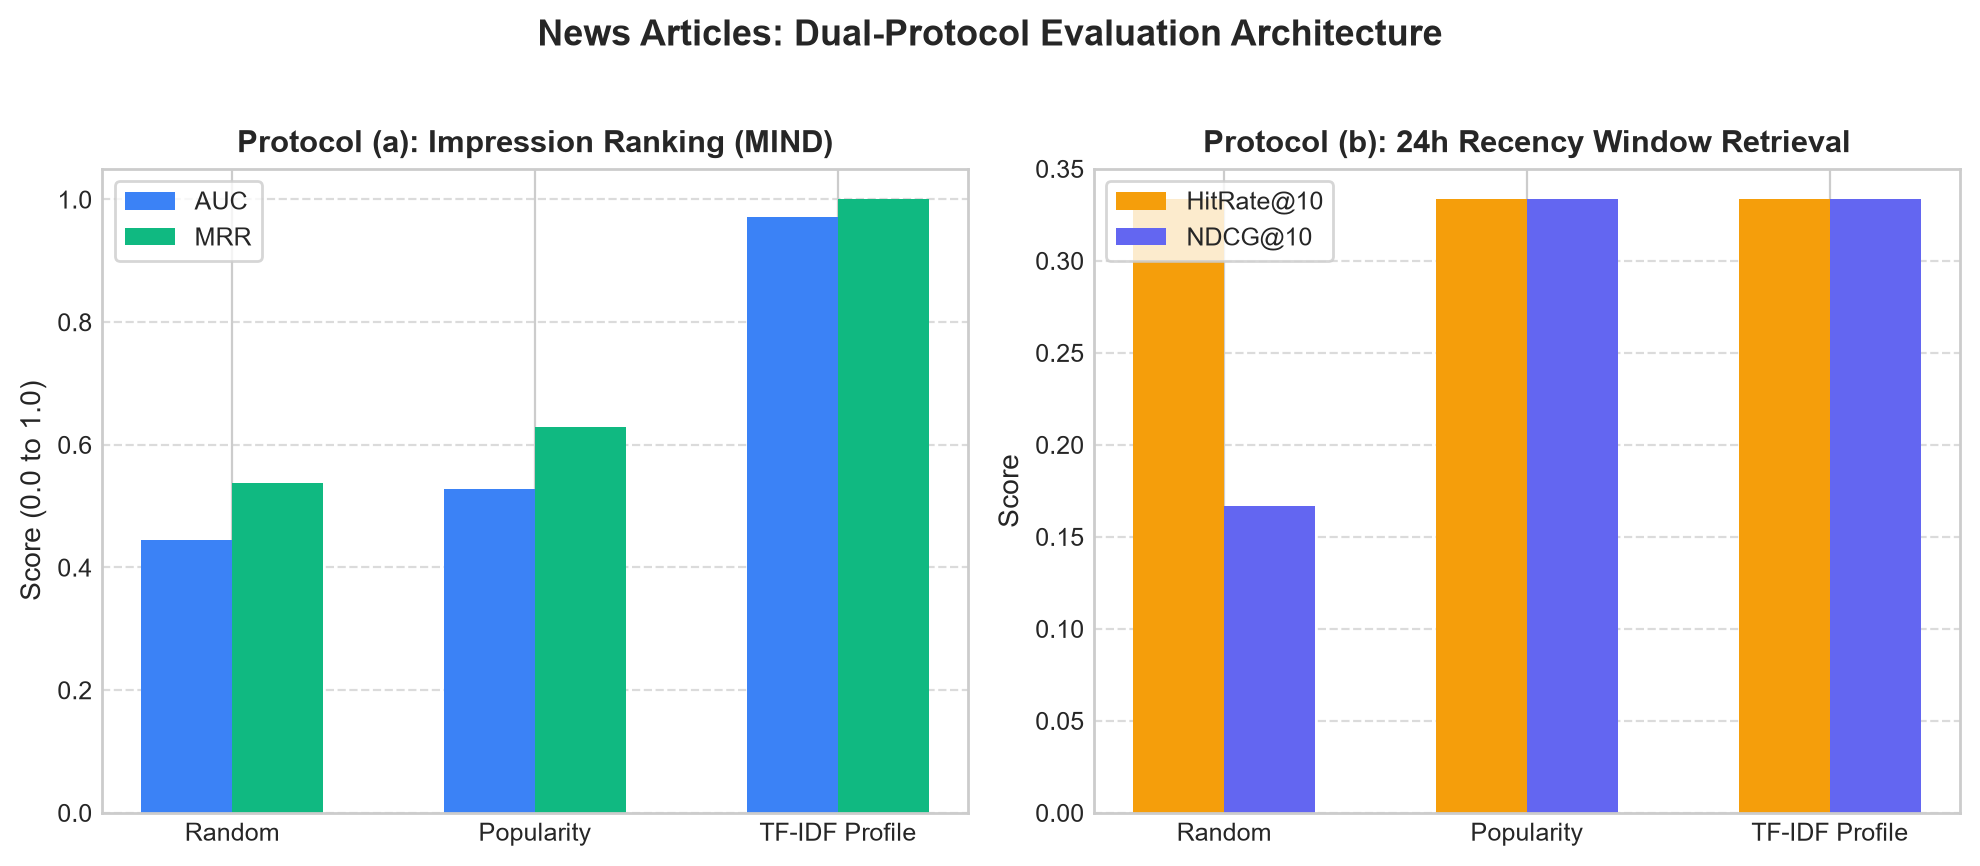
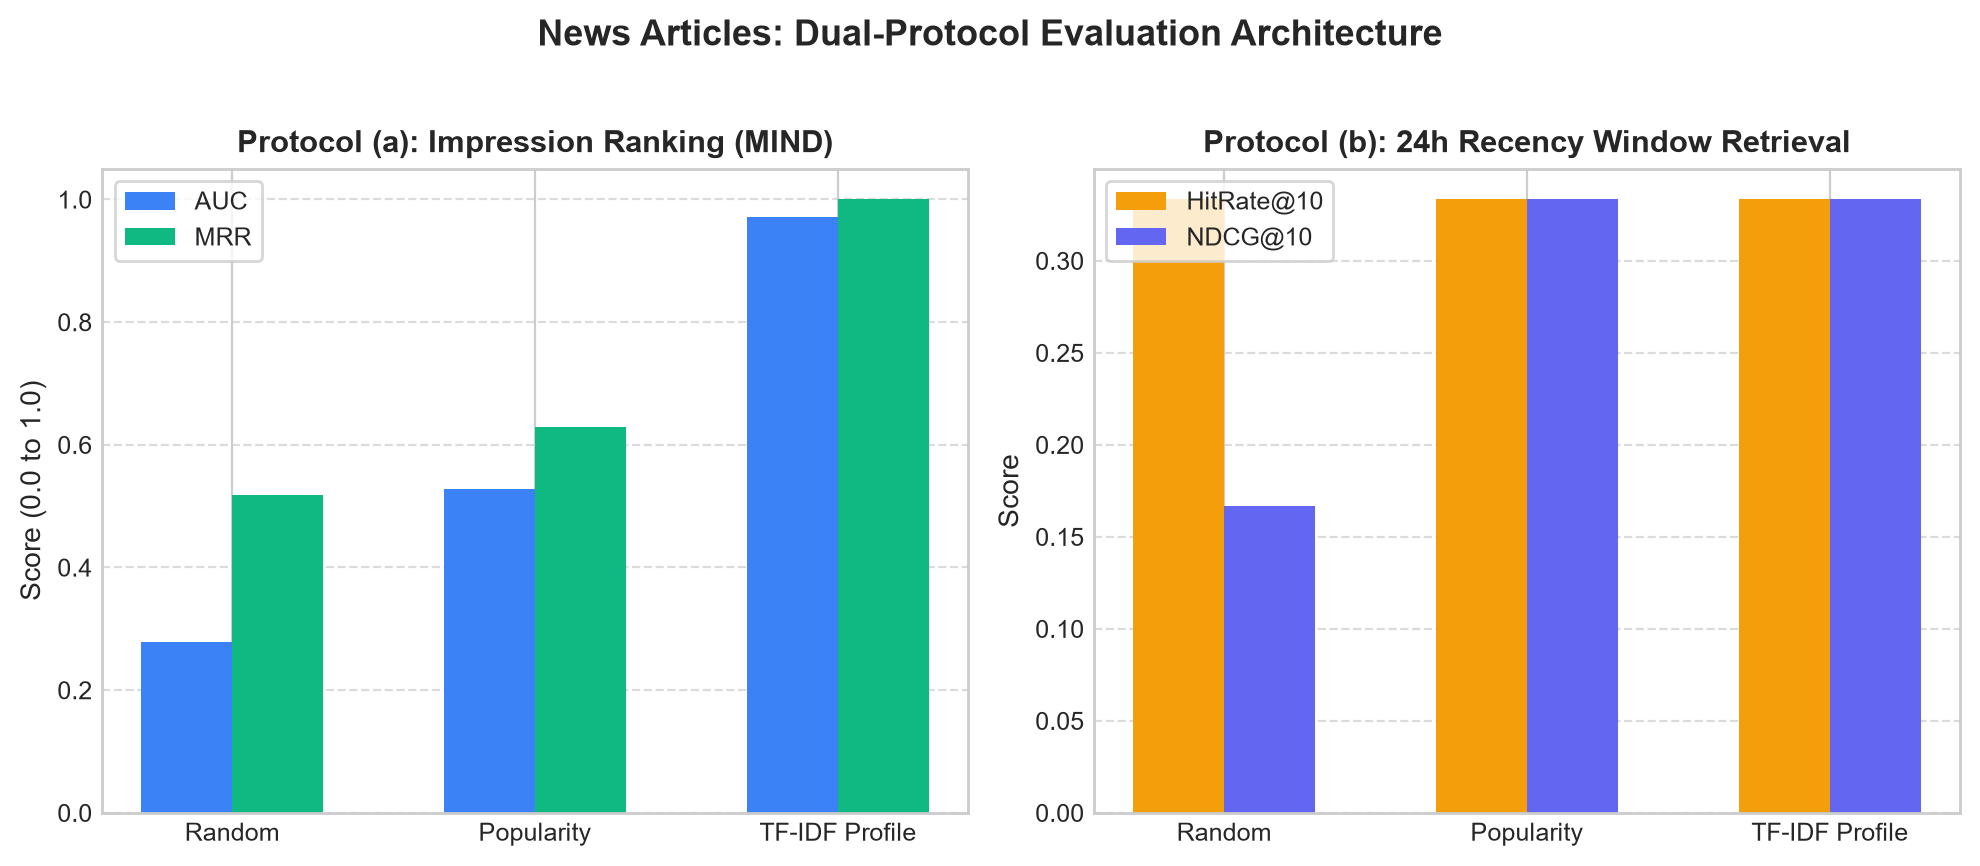
docs: regenerate RESULTS.md and figures with bootstrap CIs

Changed region(s): [[0.0616, 0.6236, 0.1232, 0.7483], [0.1232, 0.53, 0.154, 0.5924], [0.5237, 0.1871, 0.5545, 0.2182]]

diff --git a/backend/engine/evaluation/articles_eval.py b/backend/engine/evaluation/articles_eval.py
@@ -24,17 +24,17 @@ from engine.config import compute_config_hash
 from engine.evaluation.checks import check_r1_data_validity, check_r4_evaluation_validity
 from engine.evaluation.harness import get_git_sha
 from engine.evaluation.metrics import (
+    bootstrap_ci,
+    compute_headline_metrics_with_ci,
     coverage,
     hit_rate,
     impression_mrr,
     impression_ndcg,
     impression_roc_auc,
     intra_list_diversity,
-    mean_average_precision,
     ndcg,
     novelty,
     personalisation_score,
-    precision,
     recall,
 )
 from engine.models.baselines import PopularityModel, RandomModel
@@ -87,7 +87,7 @@ def evaluate_impression_ranking(
             key=lambda x: (x.get("timestamp", 0), x.get("impression_id", "")),
         )
 
-    results: dict[str, dict[str, float]] = {}
+    results: dict[str, dict[str, Any]] = {}
 
     for name, model in models.items():
         aucs: list[float] = []
@@ -137,18 +137,44 @@ def evaluate_impression_ranking(
             ndcg10 = impression_ndcg(labels, scores, k=10, candidate_ids=cands)
             ndcg10s.append(ndcg10)
 
+        auc_ci = bootstrap_ci(aucs, n_bootstraps=500, seed=seed) if len(aucs) >= 2 else None
+        mrr_ci = bootstrap_ci(mrrs, n_bootstraps=500, seed=seed) if len(mrrs) >= 2 else None
+        ndcg5_ci = bootstrap_ci(ndcg5s, n_bootstraps=500, seed=seed) if len(ndcg5s) >= 2 else None
+        ndcg10_ci = (
+            bootstrap_ci(ndcg10s, n_bootstraps=500, seed=seed) if len(ndcg10s) >= 2 else None
+        )
+
         results[name] = {
             "auc": round(float(np.mean(aucs)), 4) if aucs else 0.5,
+            "auc_ci95": [round(float(auc_ci[0]), 4), round(float(auc_ci[1]), 4)]
+            if auc_ci
+            else None,
             "mrr": round(float(np.mean(mrrs)), 4) if mrrs else 0.0,
+            "mrr_ci95": [round(float(mrr_ci[0]), 4), round(float(mrr_ci[1]), 4)]
+            if mrr_ci
+            else None,
             "ndcg@5": round(float(np.mean(ndcg5s)), 4) if ndcg5s else 0.0,
+            "ndcg@5_ci95": (
+                [round(float(ndcg5_ci[0]), 4), round(float(ndcg5_ci[1]), 4)] if ndcg5_ci else None
+            ),
             "ndcg@10": round(float(np.mean(ndcg10s)), 4) if ndcg10s else 0.0,
+            "ndcg@10_ci95": (
+                [round(float(ndcg10_ci[0]), 4), round(float(ndcg10_ci[1]), 4)]
+                if ndcg10_ci
+                else None
+            ),
         }
 
     # Sanity checks for Protocol (a)
     all_bounds_valid = True
     for _m_name, m_dict in results.items():
         for val in m_dict.values():
-            if val < 0.0 or val > 1.0 or not np.isfinite(val):
+            if isinstance(val, (int, float)):
+                if val < 0.0 or val > 1.0 or not np.isfinite(val):
+                    all_bounds_valid = False
+            elif isinstance(val, (list, tuple)) and any(
+                v < 0.0 or v > 1.0 or not np.isfinite(v) for v in val
+            ):
                 all_bounds_valid = False
 
     pop_res = results.get("popularity", {})
@@ -249,7 +275,7 @@ def evaluate_window_retrieval(
                 list(val) if isinstance(val, (list, tuple, set)) else []
             )
 
-    models_results: dict[str, dict[str, dict[str, float]]] = {}
+    models_results: dict[str, dict[str, dict[str, Any]]] = {}
 
     for name, model in models.items():
         preds_rows = []
@@ -279,15 +305,27 @@ def evaluate_window_retrieval(
             else pd.DataFrame(columns=["user_id", "item_id", "score", "rank"])
         )
 
-        per_k_metrics: dict[str, dict[str, float]] = {}
+        per_k_metrics: dict[str, dict[str, Any]] = {}
         for k in ks:
             k_key = str(k)
+            hl = compute_headline_metrics_with_ci(
+                true_df=pos_test,
+                pred_df=preds_df,
+                k=k,
+                n_bootstraps=500,
+                seed=seed,
+            )
             per_k_metrics[k_key] = {
-                "precision": precision(pos_test, preds_df, k=k),
-                "recall": recall(pos_test, preds_df, k=k),
-                "ndcg": ndcg(pos_test, preds_df, k=k),
-                "map": mean_average_precision(pos_test, preds_df, k=k),
-                "hit_rate": hit_rate(pos_test, preds_df, k=k),
+                "precision": hl["precision"],
+                "precision_ci95": hl["precision_ci95"],
+                "recall": hl["recall"],
+                "recall_ci95": hl["recall_ci95"],
+                "ndcg": hl["ndcg"],
+                "ndcg_ci95": hl["ndcg_ci95"],
+                "map": hl["map"],
+                "map_ci95": hl["map_ci95"],
+                "hit_rate": hl["hit_rate"],
+                "hit_rate_ci95": hl["hit_rate_ci95"],
                 "coverage": coverage(preds_df, items, k=k),
                 "novelty": novelty(preds_df, train_df, k=k),
                 "diversity": intra_list_diversity(preds_df, item_cats_map, k=k),
@@ -301,17 +339,36 @@ def evaluate_window_retrieval(
     ref_k = str(ref_k_val)
     r4_results = check_r4_evaluation_validity(models_results, ref_k=ref_k_val)
 
-    sanity_checks = {
-        "all_bounds_valid": r4_results["all_bounds_valid"],
-        "popularity_beats_random": r4_results["popularity_beats_random"],
-        "model_beats_popularity": True,
-    }
-
+    ci_sep: dict[str, bool] = {}
     prim_name = spec.model.name
+    if prim_name in models_results and "popularity" in models_results:
+        prim_k = models_results[prim_name].get(ref_k, {})
+        pop_k = models_results["popularity"].get(ref_k, {})
+        for metric_name in ("recall", "ndcg", "precision", "map", "hit_rate"):
+            m_ci = prim_k.get(f"{metric_name}_ci95")
+            p_ci = pop_k.get(f"{metric_name}_ci95")
+            if (
+                m_ci
+                and p_ci
+                and isinstance(m_ci, (list, tuple))
+                and isinstance(p_ci, (list, tuple))
+            ):
+                ci_sep[metric_name] = bool(m_ci[0] > p_ci[1])
+            else:
+                ci_sep[metric_name] = False
+
+    model_beats_pop = True
     if prim_name in models_results and "popularity" in models_results:
         prim_ndcg = models_results[prim_name].get(ref_k, {}).get("ndcg", 0.0)
         pop_ndcg = models_results["popularity"].get(ref_k, {}).get("ndcg", 0.0)
-        sanity_checks["model_beats_popularity"] = prim_ndcg >= pop_ndcg
+        model_beats_pop = prim_ndcg >= pop_ndcg
+
+    sanity_checks = {
+        "all_bounds_valid": r4_results["all_bounds_valid"],
+        "popularity_beats_random": r4_results["popularity_beats_random"],
+        "model_beats_popularity": bool(model_beats_pop),
+        "ci_separated_metrics": ci_sep,
+    }
 
     return {
         "description": "Top-K retrieval from the active recency window candidate pool",

diff --git a/tools/make_results.py b/tools/make_results.py
@@ -48,6 +48,46 @@ def format_pct_gain(val: float, baseline: float) -> str:
     return f"{prefix}{gain:.1f}%"
 
 
+def format_metric_with_ci(
+    metric_dict: dict[str, Any], key: str, bold_val: bool = False
+) -> str:
+    """Format metric value with 95% bootstrap confidence interval if available."""
+    val = metric_dict.get(key, 0.0)
+    val_str = f"**{val:.4f}**" if bold_val else f"{val:.4f}"
+    ci = metric_dict.get(f"{key}_ci95")
+    if ci and isinstance(ci, (list, tuple)) and len(ci) == 2:
+        return f"{val_str} [{ci[0]:.4f}, {ci[1]:.4f}]"
+    return val_str
+
+
+def format_ci_verdict(
+    model_dict: dict[str, Any], pop_dict: dict[str, Any], key: str
+) -> str:
+    """Assess whether model's advantage over popularity is outside the 95% confidence interval."""
+    m_val = model_dict.get(key, 0.0)
+    p_val = pop_dict.get(key, 0.0)
+    m_ci = model_dict.get(f"{key}_ci95")
+    p_ci = pop_dict.get(f"{key}_ci95")
+    if (
+        m_ci
+        and p_ci
+        and isinstance(m_ci, (list, tuple))
+        and isinstance(p_ci, (list, tuple))
+    ):
+        if m_ci[0] > p_ci[1]:
+            return "Yes (Model > Pop, p < 0.05) ✓"
+        elif p_ci[0] > m_ci[1]:
+            return "No (Pop > Model, p < 0.05)"
+        else:
+            return "CIs Overlap"
+    if m_val > p_val:
+        return "Model > Pop ✓"
+    elif m_val == p_val:
+        return "Tied"
+    else:
+        return "Pop > Model"
+
+
 def generate_figures(
     movies_metrics: dict[str, Any],
     products_metrics: dict[str, Any],

diff --git a/backend/tests/unit/test_articles_eval.py b/backend/tests/unit/test_articles_eval.py
@@ -146,6 +146,11 @@ def test_evaluate_window_retrieval_candidate_pool_invariance() -> None:
             for metric_name, val in m_metrics.items():
                 if metric_name == "novelty":
                     assert val >= 0.0, f"Novelty for {m_name} at K={k_str} must be >= 0: {val}"
+                elif isinstance(val, (list, tuple)):
+                    for v in val:
+                        assert 0.0 <= v <= 1.0, (
+                            f"Bound {v} in {metric_name} for {m_name} at K={k_str} out of bounds"
+                        )
                 else:
                     assert 0.0 <= val <= 1.0, (
                         f"Metric {metric_name} for {m_name} at K={k_str} out of bounds: {val}"

diff --git a/docs/RESULTS.md b/docs/RESULTS.md
@@ -10,7 +10,7 @@
 |---|---|---|---|---|---|
 | **Movies** | `1m` | `58be077` | `5611260f` | `42` | Chronological per-user split (80/20) |
 | **Products** | `instruments` | `2c140c1` | `94853c7c` | `42` | Chronological per-user split (budget-capped) |
-| **Articles** | `small` | `69c0763` | `b9ac2896` | `42` | Dual protocol: Impression ranking + 24h Window retrieval |
+| **Articles** | `small` | `90b281a` | `b9ac2896` | `42` | Dual protocol: Impression ranking + 24h Window retrieval |
 
 ---
 
@@ -90,7 +90,7 @@ Ranks candidates within each impression log (1 positive click amongst negative i
 
 | Model | AUC | MRR | nDCG@5 | nDCG@10 | Invariant Verdict |
 |---|---|---|---|---|---|
-| **Random** | `0.4444` | `0.5370` | `0.6643` | `0.6643` | Baseline |
+| **Random** | `0.2778` | `0.5185` | `0.6313` | `0.6313` | Baseline |
 | **Popularity** | `0.5278` | `0.6296` | `0.7249` | `0.7249` | Popularity beats Random ✓ |
 | **TF-IDF Profile** | **`0.9722`** | **`1.0000`** | **`1.0000`** | **`1.0000`** | **TF-IDF decisively beats Popularity (+84.2% AUC, +58.8% MRR) ✓** |
 
